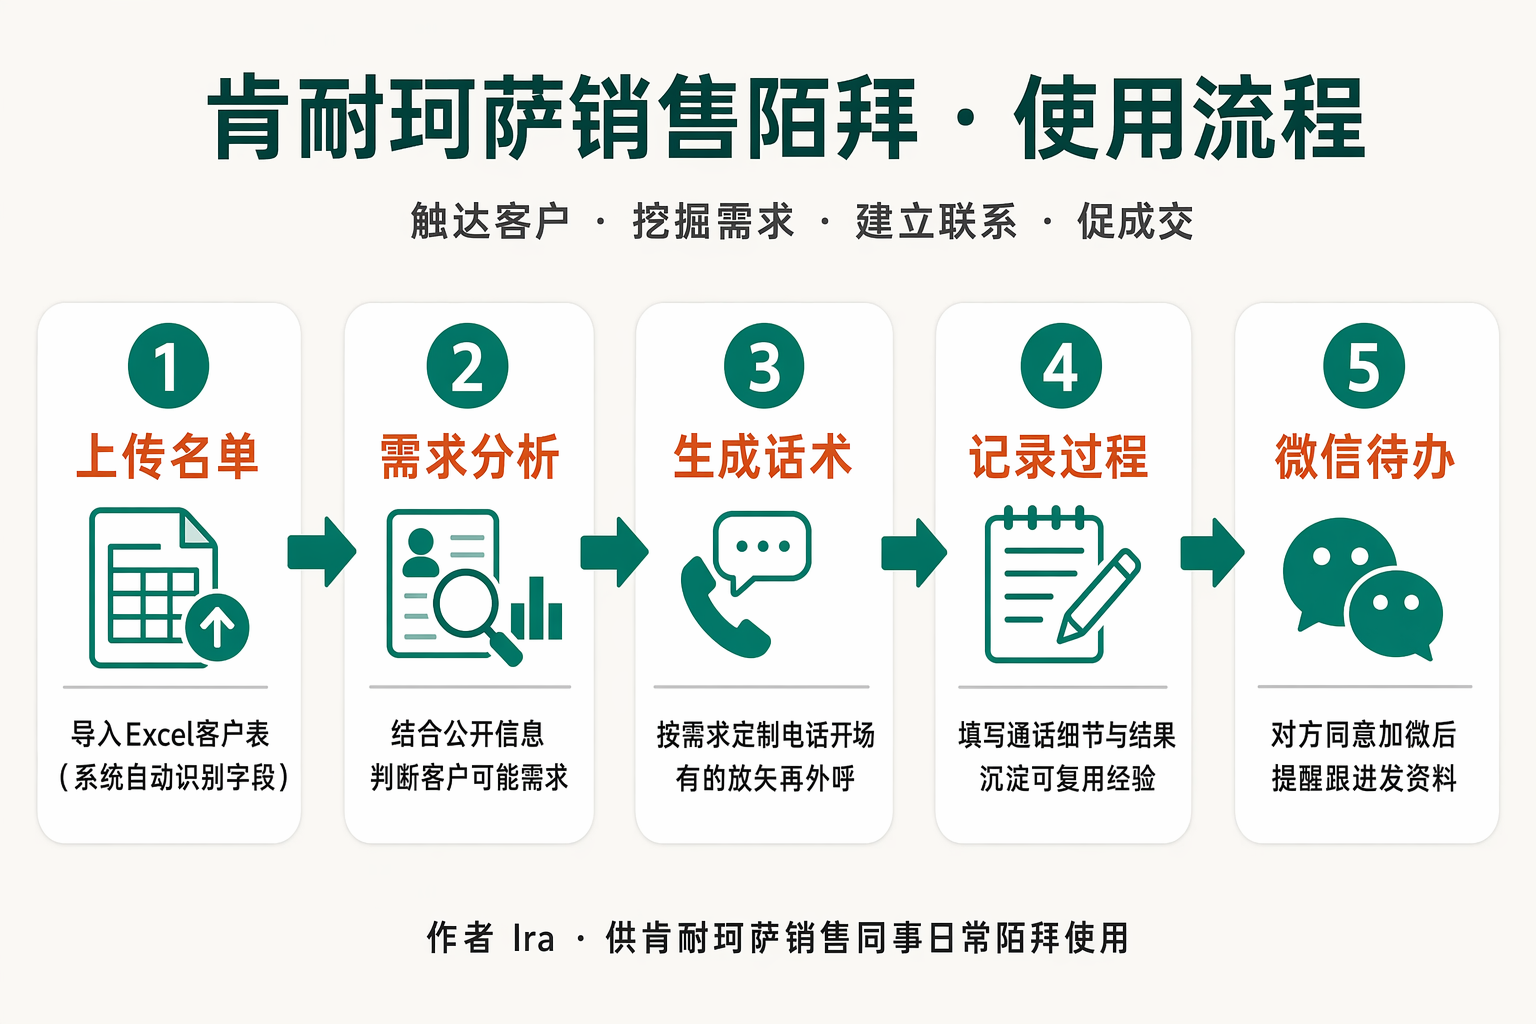
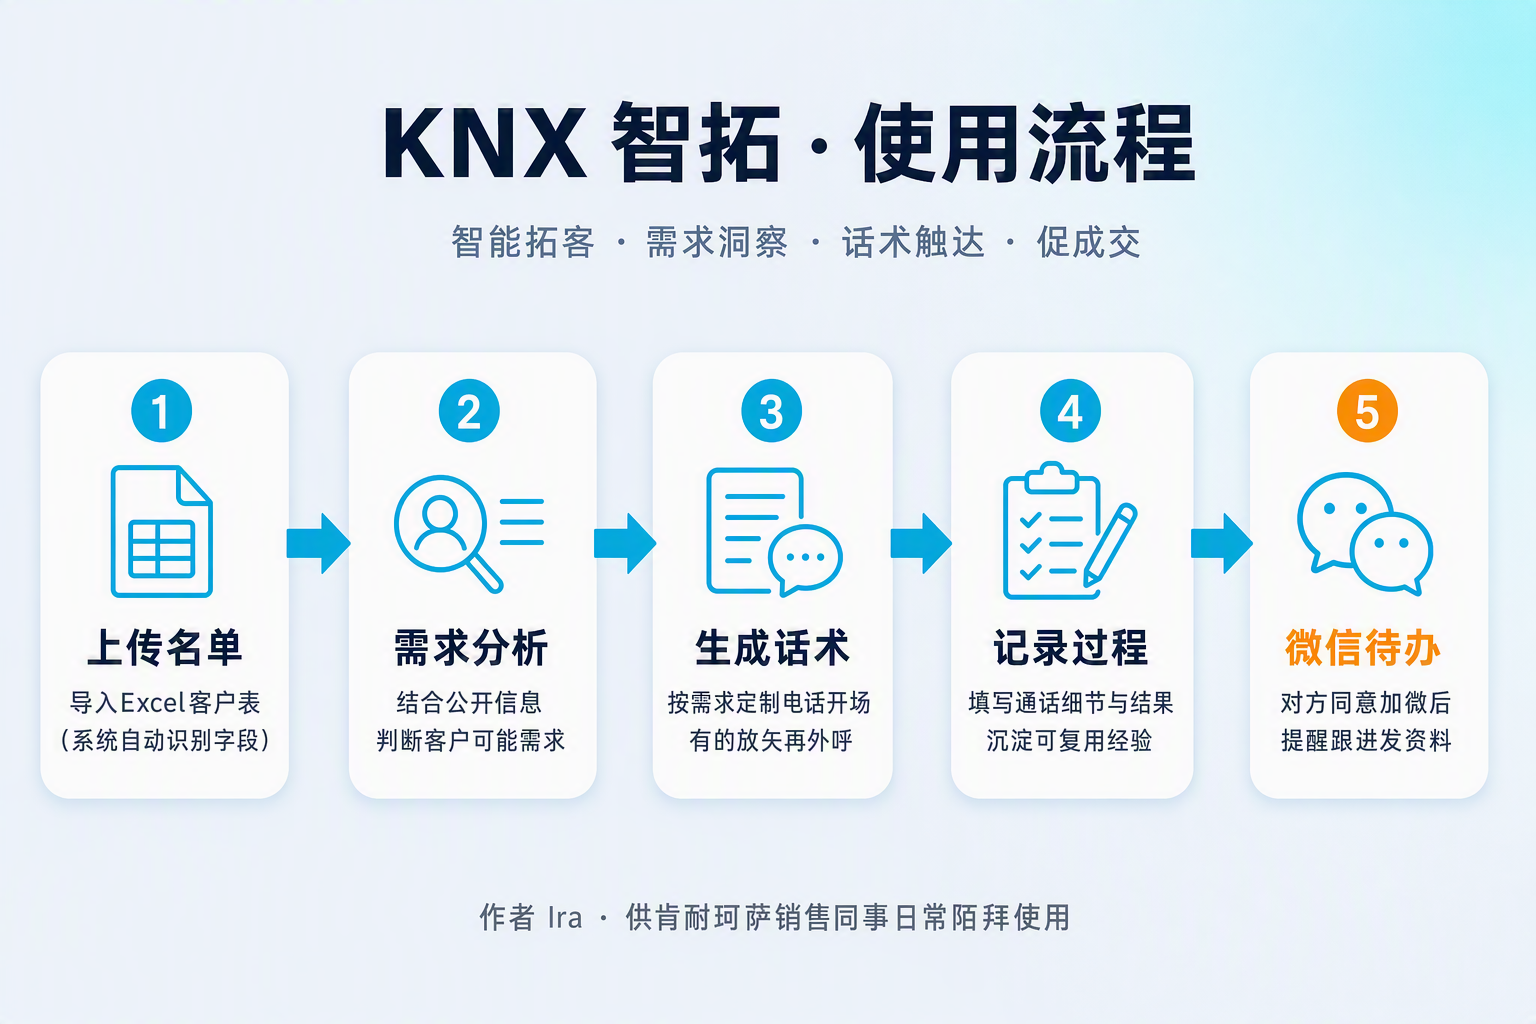
feat: 上线 KNX 智拓品牌资源、数据备份与免费 HTTPS
替换脑形靶心 logo 与青蓝配色帮助流程图；独立 timer 将 data/*.json 推送到 data-backup 分支；Caddy + sslip.io 提供 knx-zituo 自动 HTTPS。

Changed region(s): [[0.0, 0.0, 1.0, 0.8125], [0.2812, 0.875, 0.75, 0.9375]]

diff --git a/frontend/index.html b/frontend/index.html
@@ -4,6 +4,7 @@
   <meta charset="UTF-8" />
   <meta name="viewport" content="width=device-width, initial-scale=1" />
   <title>KNX 智拓 · 销售智能触达工作台</title>
+  <link rel="icon" type="image/png" href="/assets/logo-brand.png" />
   <link rel="preconnect" href="https://fonts.googleapis.com" />
   <link rel="preconnect" href="https://fonts.gstatic.com" crossorigin />
   <link href="https://fonts.googleapis.com/css2?family=Noto+Sans+SC:wght@400;500;700&family=Noto+Serif+SC:wght@600;700&display=swap" rel="stylesheet" />
@@ -15,46 +16,7 @@
     <aside class="sidebar">
       <div class="brand">
         <div class="brand-mark" aria-hidden="true">
-          <svg viewBox="0 0 48 48" fill="none">
-            <defs>
-              <linearGradient id="knxBrain" x1="6" y1="8" x2="42" y2="40" gradientUnits="userSpaceOnUse">
-                <stop stop-color="#7AF0FF"/>
-                <stop offset="0.45" stop-color="#00C8F0"/>
-                <stop offset="1" stop-color="#0077C8"/>
-              </linearGradient>
-              <linearGradient id="knxGlow" x1="24" y1="6" x2="24" y2="42" gradientUnits="userSpaceOnUse">
-                <stop stop-color="#FFFFFF" stop-opacity="0.55"/>
-                <stop offset="1" stop-color="#FFFFFF" stop-opacity="0"/>
-              </linearGradient>
-              <filter id="knxSoft" x="-20%" y="-20%" width="140%" height="140%">
-                <feGaussianBlur stdDeviation="0.6" result="b"/>
-                <feMerge><feMergeNode in="b"/><feMergeNode in="SourceGraphic"/></feMerge>
-              </filter>
-            </defs>
-            <!-- brain silhouette -->
-            <path filter="url(#knxSoft)" fill="url(#knxBrain)" d="M24 8.2c-2.1 0-3.9.7-5.2 1.9-1-.7-2.3-1.1-3.7-1.1-3.6 0-6.5 2.9-6.5 6.5 0 1.1.3 2.2.8 3.1C8.2 20 7.4 21.7 7.4 23.6c0 2.4 1.2 4.5 3.1 5.8-.2.6-.3 1.2-.3 1.9 0 3.1 2.3 5.6 5.3 5.9 1.1 1.4 2.9 2.3 4.9 2.3 1.4 0 2.7-.4 3.7-1.2.9.7 2.1 1.1 3.4 1.1 2.1 0 3.9-.9 5.1-2.4 2.8-.5 4.9-2.9 4.9-5.8 0-.5-.1-1-.2-1.5 1.7-1.3 2.8-3.3 2.8-5.6 0-1.8-.7-3.4-1.8-4.6.4-.8.7-1.8.7-2.8 0-3.5-2.8-6.4-6.3-6.4-1.3 0-2.5.4-3.5 1.1C27.7 8.8 26 8.2 24 8.2Z"/>
-            <!-- circuit left -->
-            <g stroke="#F4FCFF" stroke-width="1.15" stroke-linecap="round" opacity="0.92">
-              <path d="M14.2 18.2h5.2"/>
-              <path d="M14.8 22.2h4.4"/>
-              <path d="M15.5 26.2h3.4"/>
-              <circle cx="14.2" cy="18.2" r="1.05" fill="#F4FCFF" stroke="none"/>
-              <circle cx="14.8" cy="22.2" r="1.05" fill="#F4FCFF" stroke="none"/>
-              <circle cx="15.5" cy="26.2" r="1.05" fill="#F4FCFF" stroke="none"/>
-            </g>
-            <!-- neural right -->
-            <g stroke="#F4FCFF" stroke-width="1.15" stroke-linecap="round" stroke-linejoin="round" opacity="0.9" fill="none">
-              <path d="M28.4 18.5c1.8.4 3.4 1.3 4.4 2.8"/>
-              <path d="M28.8 22.8c2.1.2 3.6 1.2 4.6 2.7"/>
-              <path d="M28.2 26.8c1.6.8 2.8 1.6 3.4 3"/>
-              <circle cx="33.1" cy="21.4" r="1.05" fill="#F4FCFF" stroke="none"/>
-              <circle cx="33.6" cy="25.6" r="1.05" fill="#F4FCFF" stroke="none"/>
-              <circle cx="31.8" cy="29.8" r="1.05" fill="#F4FCFF" stroke="none"/>
-            </g>
-            <!-- center light split -->
-            <path d="M24 12.2v23.2" stroke="url(#knxGlow)" stroke-width="1.4" stroke-linecap="round"/>
-            <circle cx="24" cy="24" r="1.7" fill="#FFFFFF" opacity="0.95"/>
-          </svg>
+          <img src="/assets/logo-brand.png" alt="" width="46" height="46" />
         </div>
         <div>
           <div class="brand-name">KNX<span>智拓</span></div>
@@ -362,7 +324,7 @@
       <ol class="help-steps" id="helpSteps"></ol>
       <div class="help-image-wrap">
         <div id="helpImageStatus" class="muted">流程图加载中…</div>
-        <img id="helpImage" class="help-image hidden" alt="肯耐珂萨销售陌拜使用流程图" />
+        <img id="helpImage" class="help-image hidden" alt="KNX 智拓使用流程图" />
       </div>
       <p class="muted" style="margin-top:0.8rem">作者 Ira · KNX 智拓 · 供肯耐珂萨销售同事日常陌拜使用</p>
     </div>

diff --git a/frontend/css/styles.css b/frontend/css/styles.css
@@ -82,50 +82,21 @@ body::before {
   margin-bottom: 0.85rem;
 }
 .brand-mark {
-  position: relative;
+  flex-shrink: 0;
   width: 46px;
   height: 46px;
   border-radius: 14px;
-  display: grid;
-  place-items: center;
-  background:
-    radial-gradient(circle at 30% 28%, rgba(255, 255, 255, 0.45), transparent 42%),
-    linear-gradient(145deg, #1adfff 0%, #00b4e4 48%, #0077c8 100%);
-  box-shadow:
-    0 0 0 1px rgba(122, 240, 255, 0.45),
-    0 0 18px rgba(0, 221, 255, 0.45),
-    0 8px 20px rgba(0, 120, 190, 0.45),
-    inset 0 1px 0 rgba(255, 255, 255, 0.4);
   overflow: hidden;
+  box-shadow:
+    0 0 0 1px rgba(122, 240, 255, 0.35),
+    0 0 16px rgba(0, 221, 255, 0.35),
+    0 6px 16px rgba(0, 40, 80, 0.45);
 }
-.brand-mark::before {
-  content: "";
-  position: absolute;
-  inset: -30%;
-  background: conic-gradient(from 180deg, transparent 0deg, rgba(255,255,255,0.28) 40deg, transparent 90deg);
-  animation: brandShine 5.5s linear infinite;
-  pointer-events: none;
-}
-.brand-mark::after {
-  content: "";
-  position: absolute;
-  inset: 1px;
-  border-radius: 13px;
-  border: 1px solid rgba(255, 255, 255, 0.22);
-  pointer-events: none;
-}
-.brand-mark svg {
-  position: relative;
-  z-index: 1;
-  width: 30px;
-  height: 30px;
-  filter: drop-shadow(0 0 4px rgba(255, 255, 255, 0.35));
-}
-@keyframes brandShine {
-  to { transform: rotate(360deg); }
-}
-@media (prefers-reduced-motion: reduce) {
-  .brand-mark::before { animation: none; }
+.brand-mark img {
+  display: block;
+  width: 100%;
+  height: 100%;
+  object-fit: cover;
 }
 .brand-name {
   font-family: var(--display);
@@ -684,7 +655,13 @@ input[type="checkbox"] { width: 17px; height: 17px; accent-color: var(--accent);
 .modal-card.wide { width: min(980px, 100%); }
 
 .help-steps { margin: 0 0 1rem; padding-left: 1.2rem; line-height: 1.6; }
-.help-image-wrap { background: #f7fafc; border: 1px solid var(--line); border-radius: 14px; padding: 0.6rem; min-height: 180px; }
+.help-image-wrap {
+  background: linear-gradient(180deg, #eef3f8 0%, #e8eef6 100%);
+  border: 1px solid var(--line);
+  border-radius: 14px;
+  padding: 0.6rem;
+  min-height: 180px;
+}
 .help-image { width: 100%; height: auto; display: block; border-radius: 10px; }
 
 .loading-modal { background: rgba(8, 14, 28, 0.6); }

diff --git a/backend/image_gen.py b/backend/image_gen.py
@@ -19,17 +19,24 @@ def available() -> bool:
 
 
 HELP_PROMPT = """Create a clean horizontal business workflow infographic for Chinese B2B sales users.
-Landscape 16:9, light warm-gray background (#F3F1EC), Kenexa-style professional teal accent (#0F7A62), coral accent (#C45C26).
+Landscape 16:9. Match KNX 智拓 product UI colors exactly:
+- Background: cool light blue-gray gradient (#EEF3F8 to #E8EEF6), subtle soft cyan radial glow top-right (rgba cyan, very faint)
+- Primary accent cyan: #00A8D8
+- Glow accent: #00DDFF
+- Deep navy ink: #0D1526 / #1A2438
+- Soft orange CTA accent: #FF9C00 (use sparingly for step titles or number rings)
+- Cards: pure white (#FFFFFF), soft blue-gray shadow, rounded ~16px
 NO logos, NO watermarks, NO English except step numbers 1-5.
+NO purple, NO teal/green Kenexa look, NO warm cream/beige background, NO terracotta/coral.
 
-Title at top center in clear bold Chinese (exact text):
-「肯耐珂萨销售陌拜 · 使用流程」
+Title at top center in clear bold Chinese navy (exact text):
+「KNX 智拓 · 使用流程」
 
-Subtitle under title (exact):
-「触达客户 · 挖掘需求 · 建立联系 · 促成交」
+Subtitle under title in muted blue-gray (exact):
+「智能拓客 · 需求洞察 · 话术触达 · 促成交」
 
-Draw FIVE numbered rounded steps in a single left-to-right flow with thick teal arrows between them.
-Each step is a white rounded card with a large number circle and EXACT Chinese labels as follows:
+Draw FIVE numbered rounded white cards in a single left-to-right flow with thick cyan (#00A8D8) arrows between them.
+Each card: large cyan/orange number circle, simple flat cyan line-icon, EXACT Chinese labels:
 
 Step 1 title: 上传名单
 Step 1 body: 导入Excel客户表
@@ -51,11 +58,11 @@ Step 5 title: 微信待办
 Step 5 body: 对方同意加微后
 提醒跟进发资料
 
-Bottom footer line (exact Chinese):
+Bottom footer line in muted gray (exact Chinese):
 「作者 Ira · 供肯耐珂萨销售同事日常陌拜使用」
 
-Typography requirements: all Chinese characters must be sharp, large, high-contrast, perfectly legible, no typos, no missing strokes, no garbled glyphs.
-Flat modern infographic style, generous spacing, no clutter, no 3D, no purple neon.
+Typography: all Chinese characters sharp, large, high-contrast, perfectly legible, no typos, no missing strokes, no garbled glyphs.
+Flat modern SaaS infographic, generous spacing, no clutter, no 3D, no neon purple glow.
 """
 
 

diff --git a/backend/main.py b/backend/main.py
@@ -214,7 +214,7 @@ def api_reset_seed() -> dict:
 def help_meta() -> dict:
     exists = config.HELP_IMAGE_PATH.exists() and config.HELP_IMAGE_PATH.stat().st_size > 1000
     return {
-        "title": "使用说明",
+        "title": "KNX 智拓 · 使用说明",
         "steps": [
             {"n": 1, "title": "上传名单", "desc": "导入 Excel 客户表，系统自动识别姓名、电话、公司等字段"},
             {"n": 2, "title": "需求分析", "desc": "智能助手自动分析每位客户的需求与推荐产品，支持人工补充后再分析"},
@@ -225,7 +225,7 @@ def help_meta() -> dict:
         "image_ready": exists,
         "image_url": "/assets/help-workflow.png" if exists else None,
         "author": "Ira",
-        "org": "肯耐珂萨",
+        "org": "KNX 智拓 · 肯耐珂萨",
     }
 
 

diff --git a/README.md b/README.md
@@ -1,4 +1,4 @@
-# 肯耐珂萨 · 销售陌拜工作台
+# KNX 智拓 · 销售智能触达工作台
 
 作者：**Ira** · 供肯耐珂萨销售同事日常陌拜使用。
 
@@ -13,6 +13,13 @@
 5. **微信待办** — 对方同意加微后提醒跟进发资料
 
 页面右上角「使用帮助」可查看流程图。
+
+## 线上地址
+
+- HTTPS（推荐）：https://knx-zituo.101.201.237.149.sslip.io/
+- HTTP 直连：http://101.201.237.149:8877/
+
+> 域名由 IP 反推（sslip.io），Caddy 自动签发 Let's Encrypt 证书；与主服务解耦。
 
 ## 启动
 
@@ -36,13 +43,12 @@ python scripts/prepare_demo_data.py
 
 - `backend/` API、规则引擎、智能助手客户端
 - `frontend/` 工作台界面
-- `data/` 本地 JSON 业务数据（演示数据已预置）
-- `ppt/out/` 方法论 PPT / 优先级打分说明 PDF
-- `scripts/` 演示数据准备脚本
+- `data/` 本地 JSON 业务数据（演示数据已预置；线上由 `data-backup` 分支定时备份）
+- `scripts/` 部署、备份、演示数据脚本
 - `.env.example` 配置模板（勿提交真实密钥）
 
 ## 说明
 
-- 业务状态默认落在 `data/` 目录
+- 业务状态默认落在 `data/` 目录；生产机定时备份到 GitHub `data-backup` 分支（只备份不回载）
 - 本公司（肯耐珂萨）不出现在市场方案参考列表中
 - 合规：请确保名单来源合法，遵守外呼时段与平台规范
